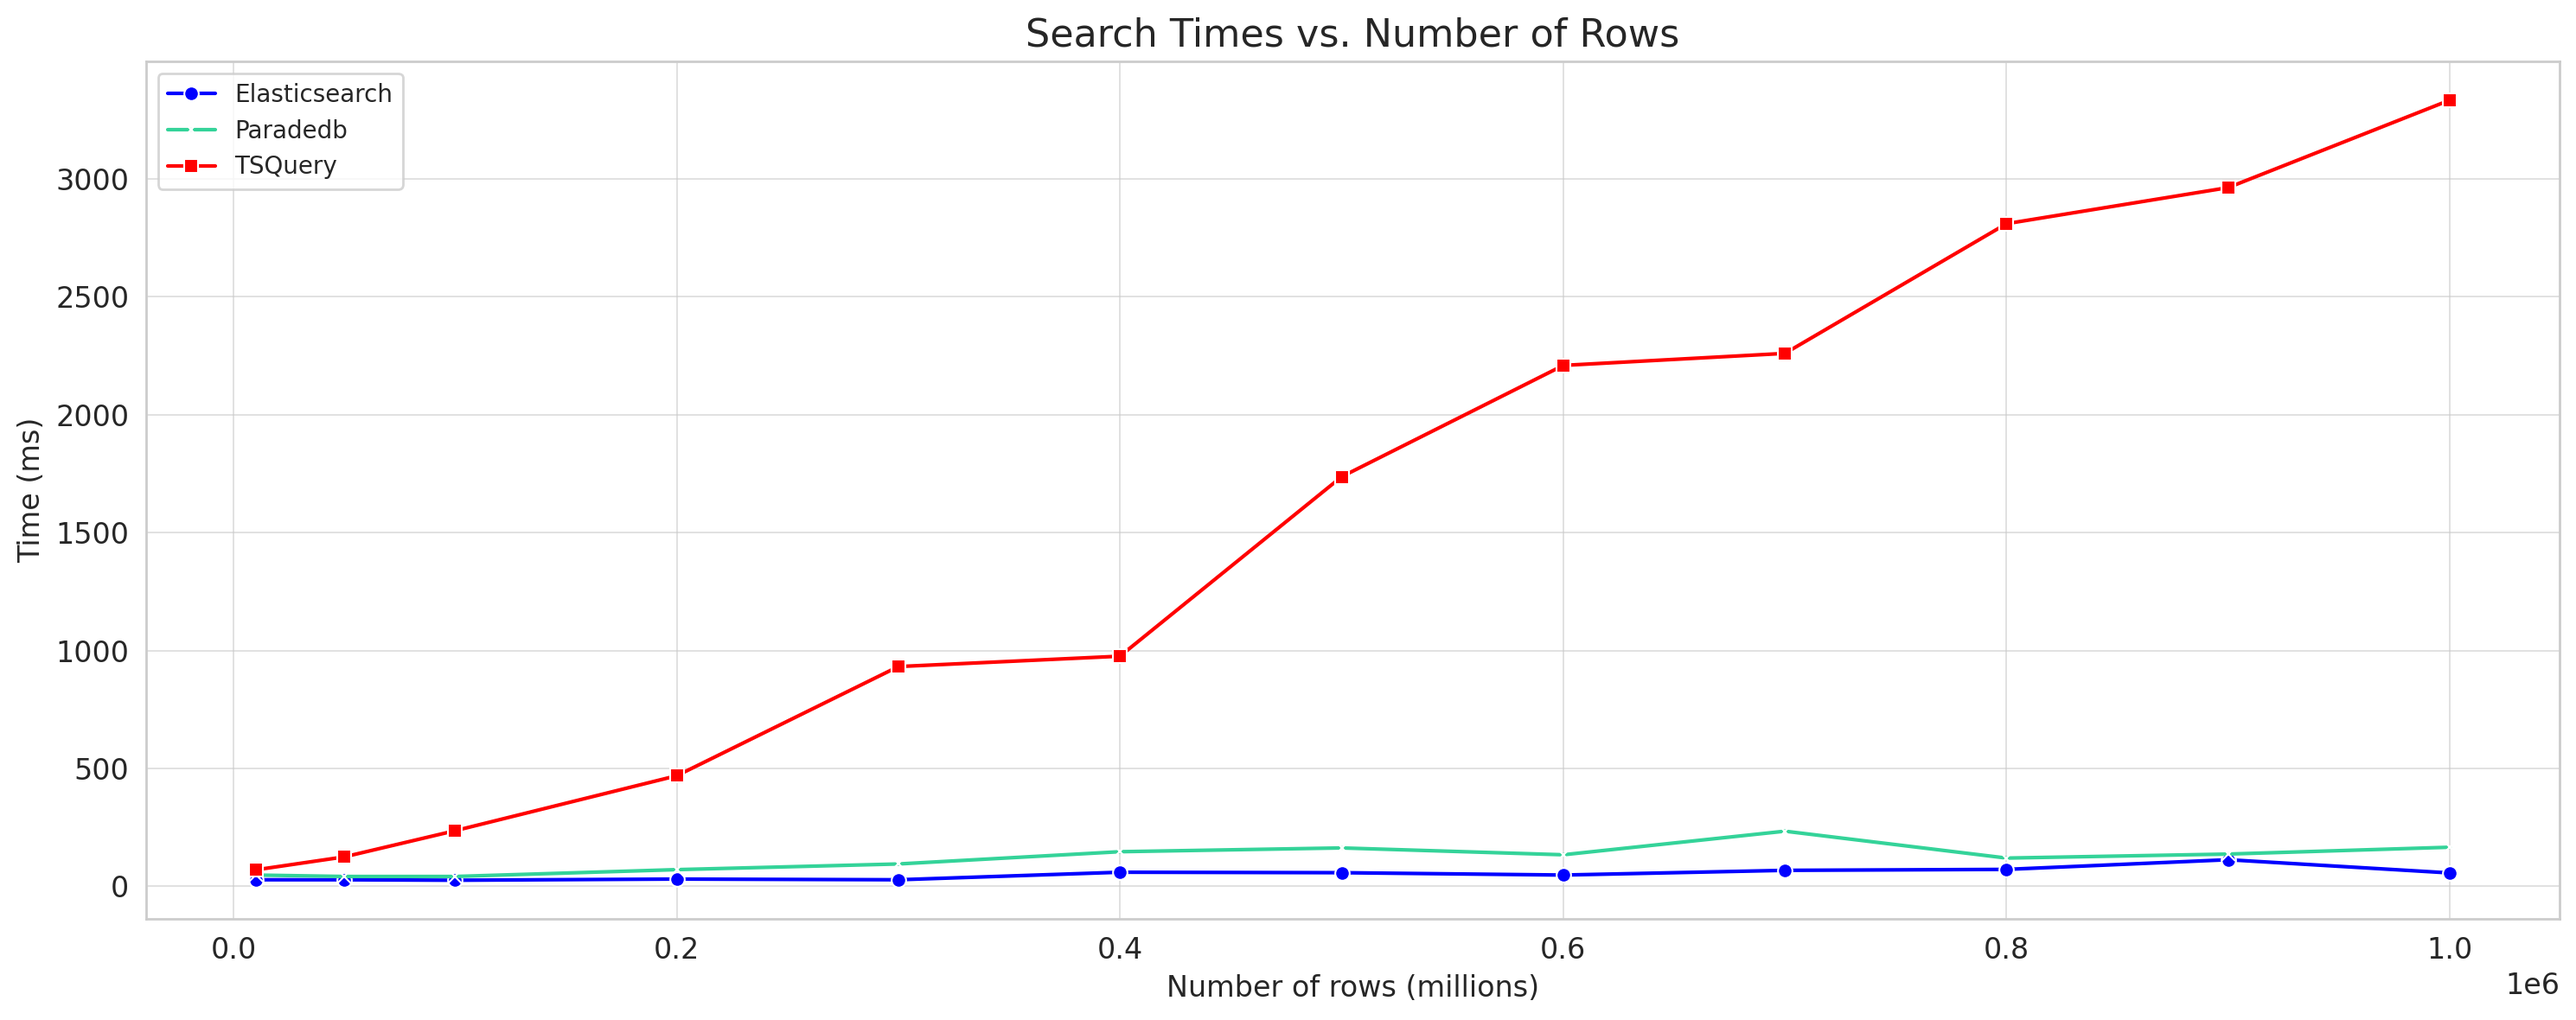
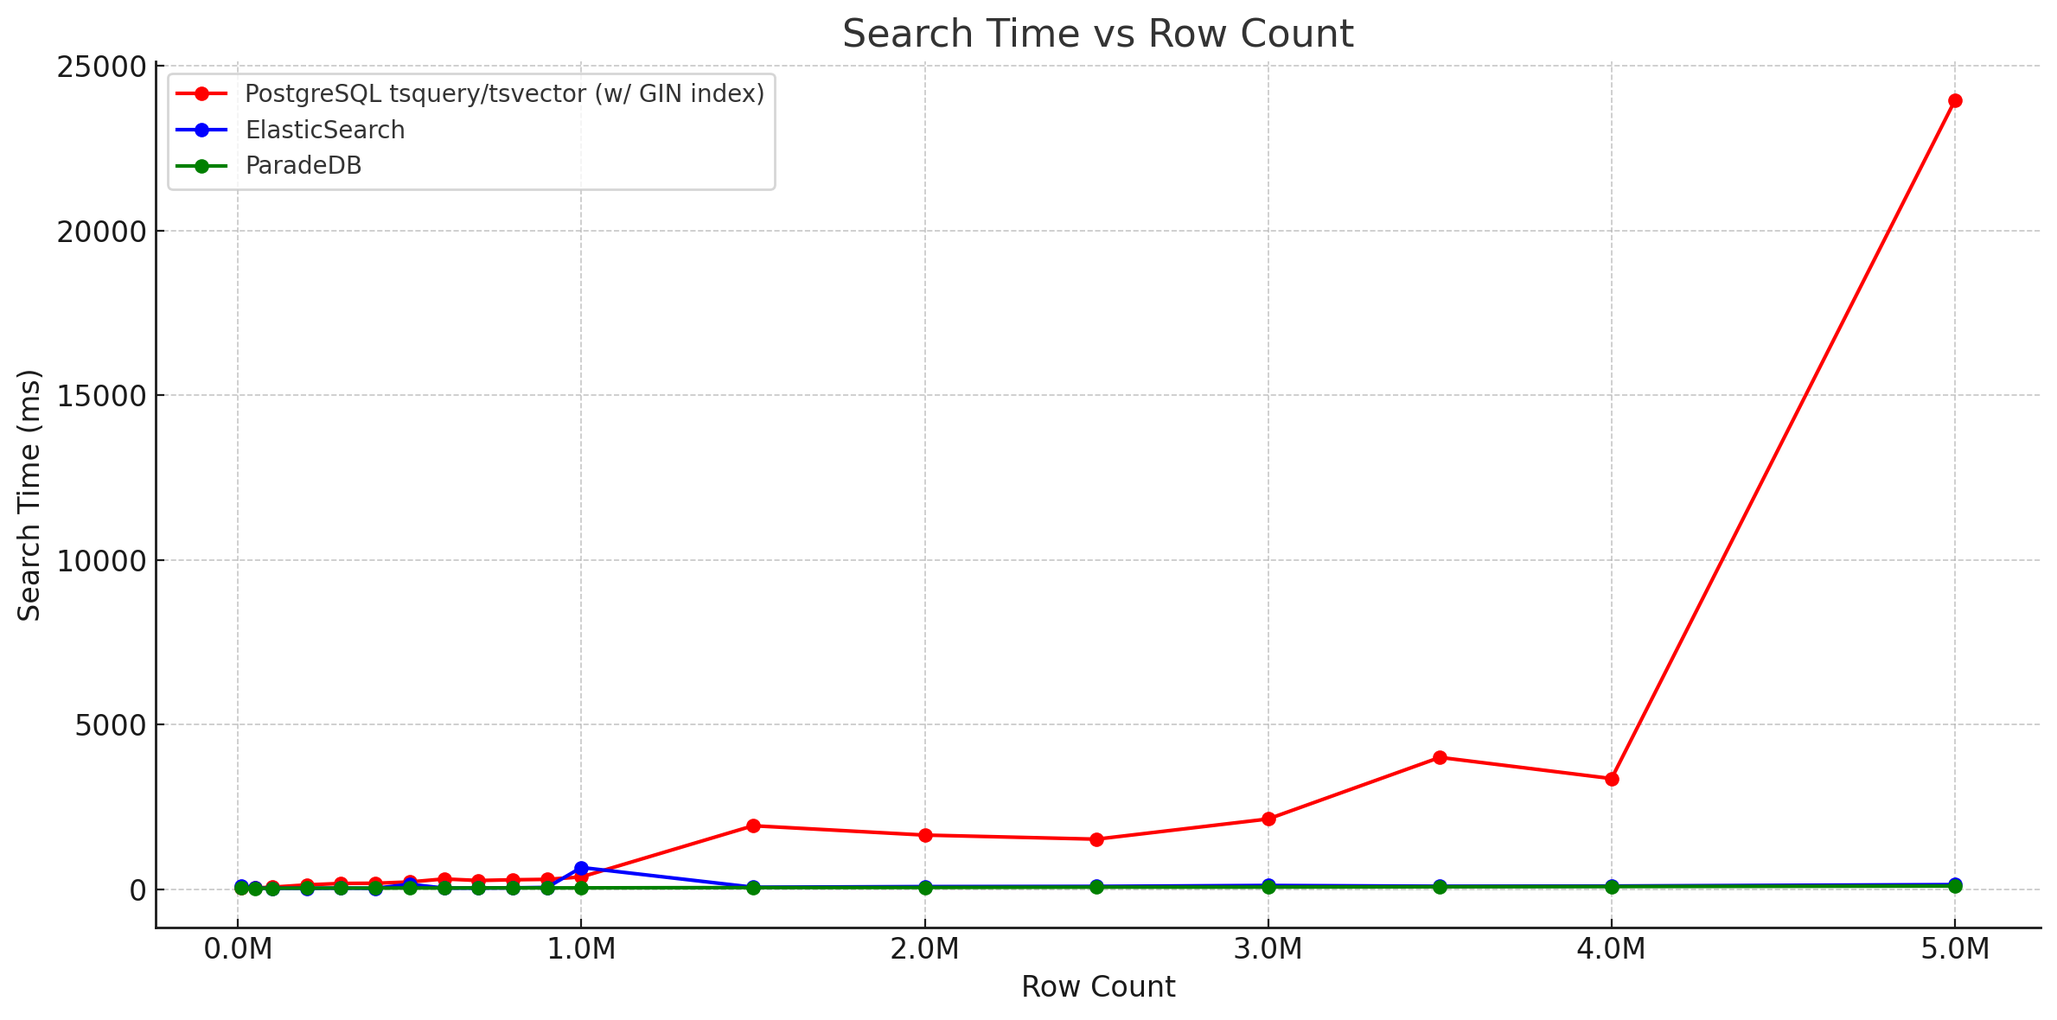
fix: Add new benchmarks (#398)

diff --git a/benchmarks/README.md b/benchmarks/README.md
@@ -5,7 +5,6 @@ This folder contains the results and scripts for benchmarking ParadeDB against o
 - [x] ParadeDB
 - [x] PostgreSQL tsquery/tsvector
 - [x] ElasticSearch
-- [x] Typesense
 
 If you'd like to see benchmarks against another system, please open an issue or a pull request.
 
@@ -66,12 +65,6 @@ For any questions, clarifications, or suggestions regarding our benchmarking exp
 
 ### pg_bm25
 
-NOTE: The below benchmarks are from _before_ the experimental setup introduced above. We are currently updating the benchmarks and will update the results below very soon.
-
-On a table with 1 million rows, `pg_bm25` indexes 50 seconds faster than `tsvector` and searches + ranks
-results 20x faster. Indexing and search times are nearly identical to those of a dedicated ElasticSearch
-instance.
-
 <img src="../docs/images/bm25_index_benchmark.png" alt="" width="100%">
 
 <img src="../docs/images/bm25_search_benchmark.png" alt="" width="100%">
@@ -81,17 +74,7 @@ instance.
 To generate new benchmarks, simply run the relevant Bash script:
 
 ```bash
-# Benchmark ParadeDB
-./benchmark-paradedb.sh
-
-# Benchmark PostgreSQL tsquery/tsvector
-./benchmark-tsquery
-
-# Benchmark ElasticSearch
-./benchmark-elasticsearch.sh
-
-# Benchmark Typesense
-./benchmark-typesense.sh
+./benchmark-<SYSTEM-TO-BENCHMARK>.sh
 ```
 
 The results of the benchmarks will be written to a `.csv` file in the `out/` folder.
